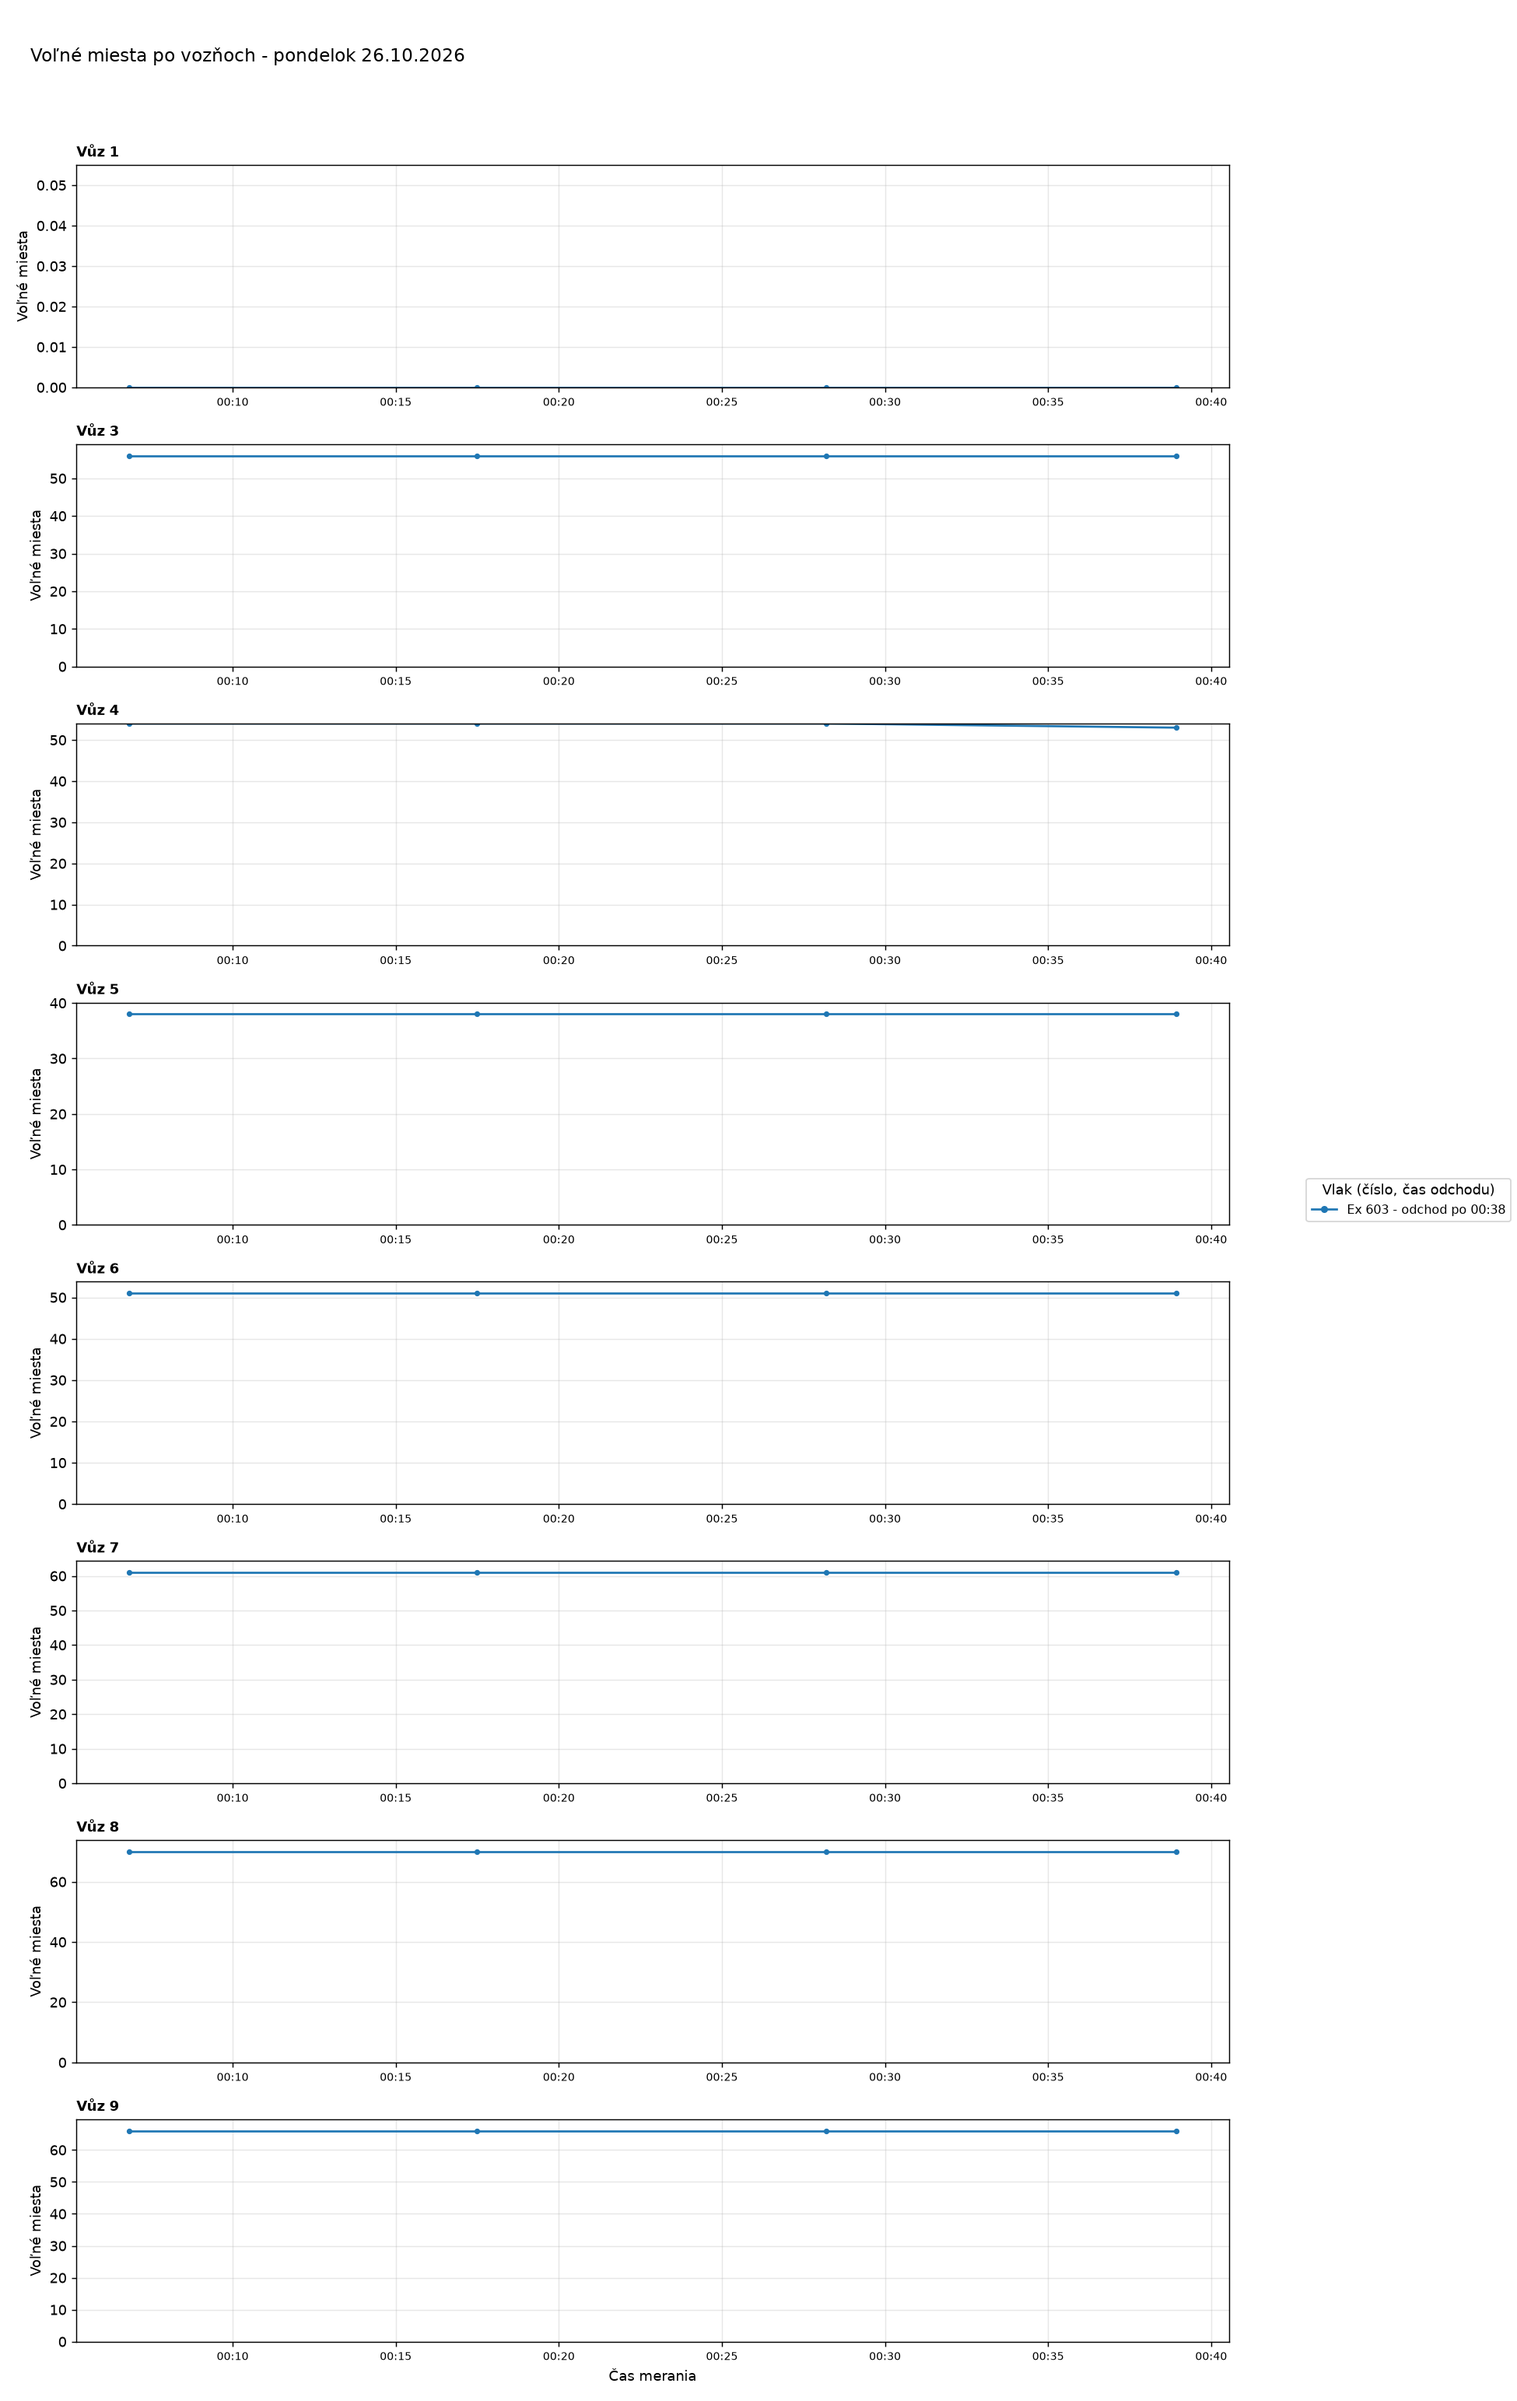
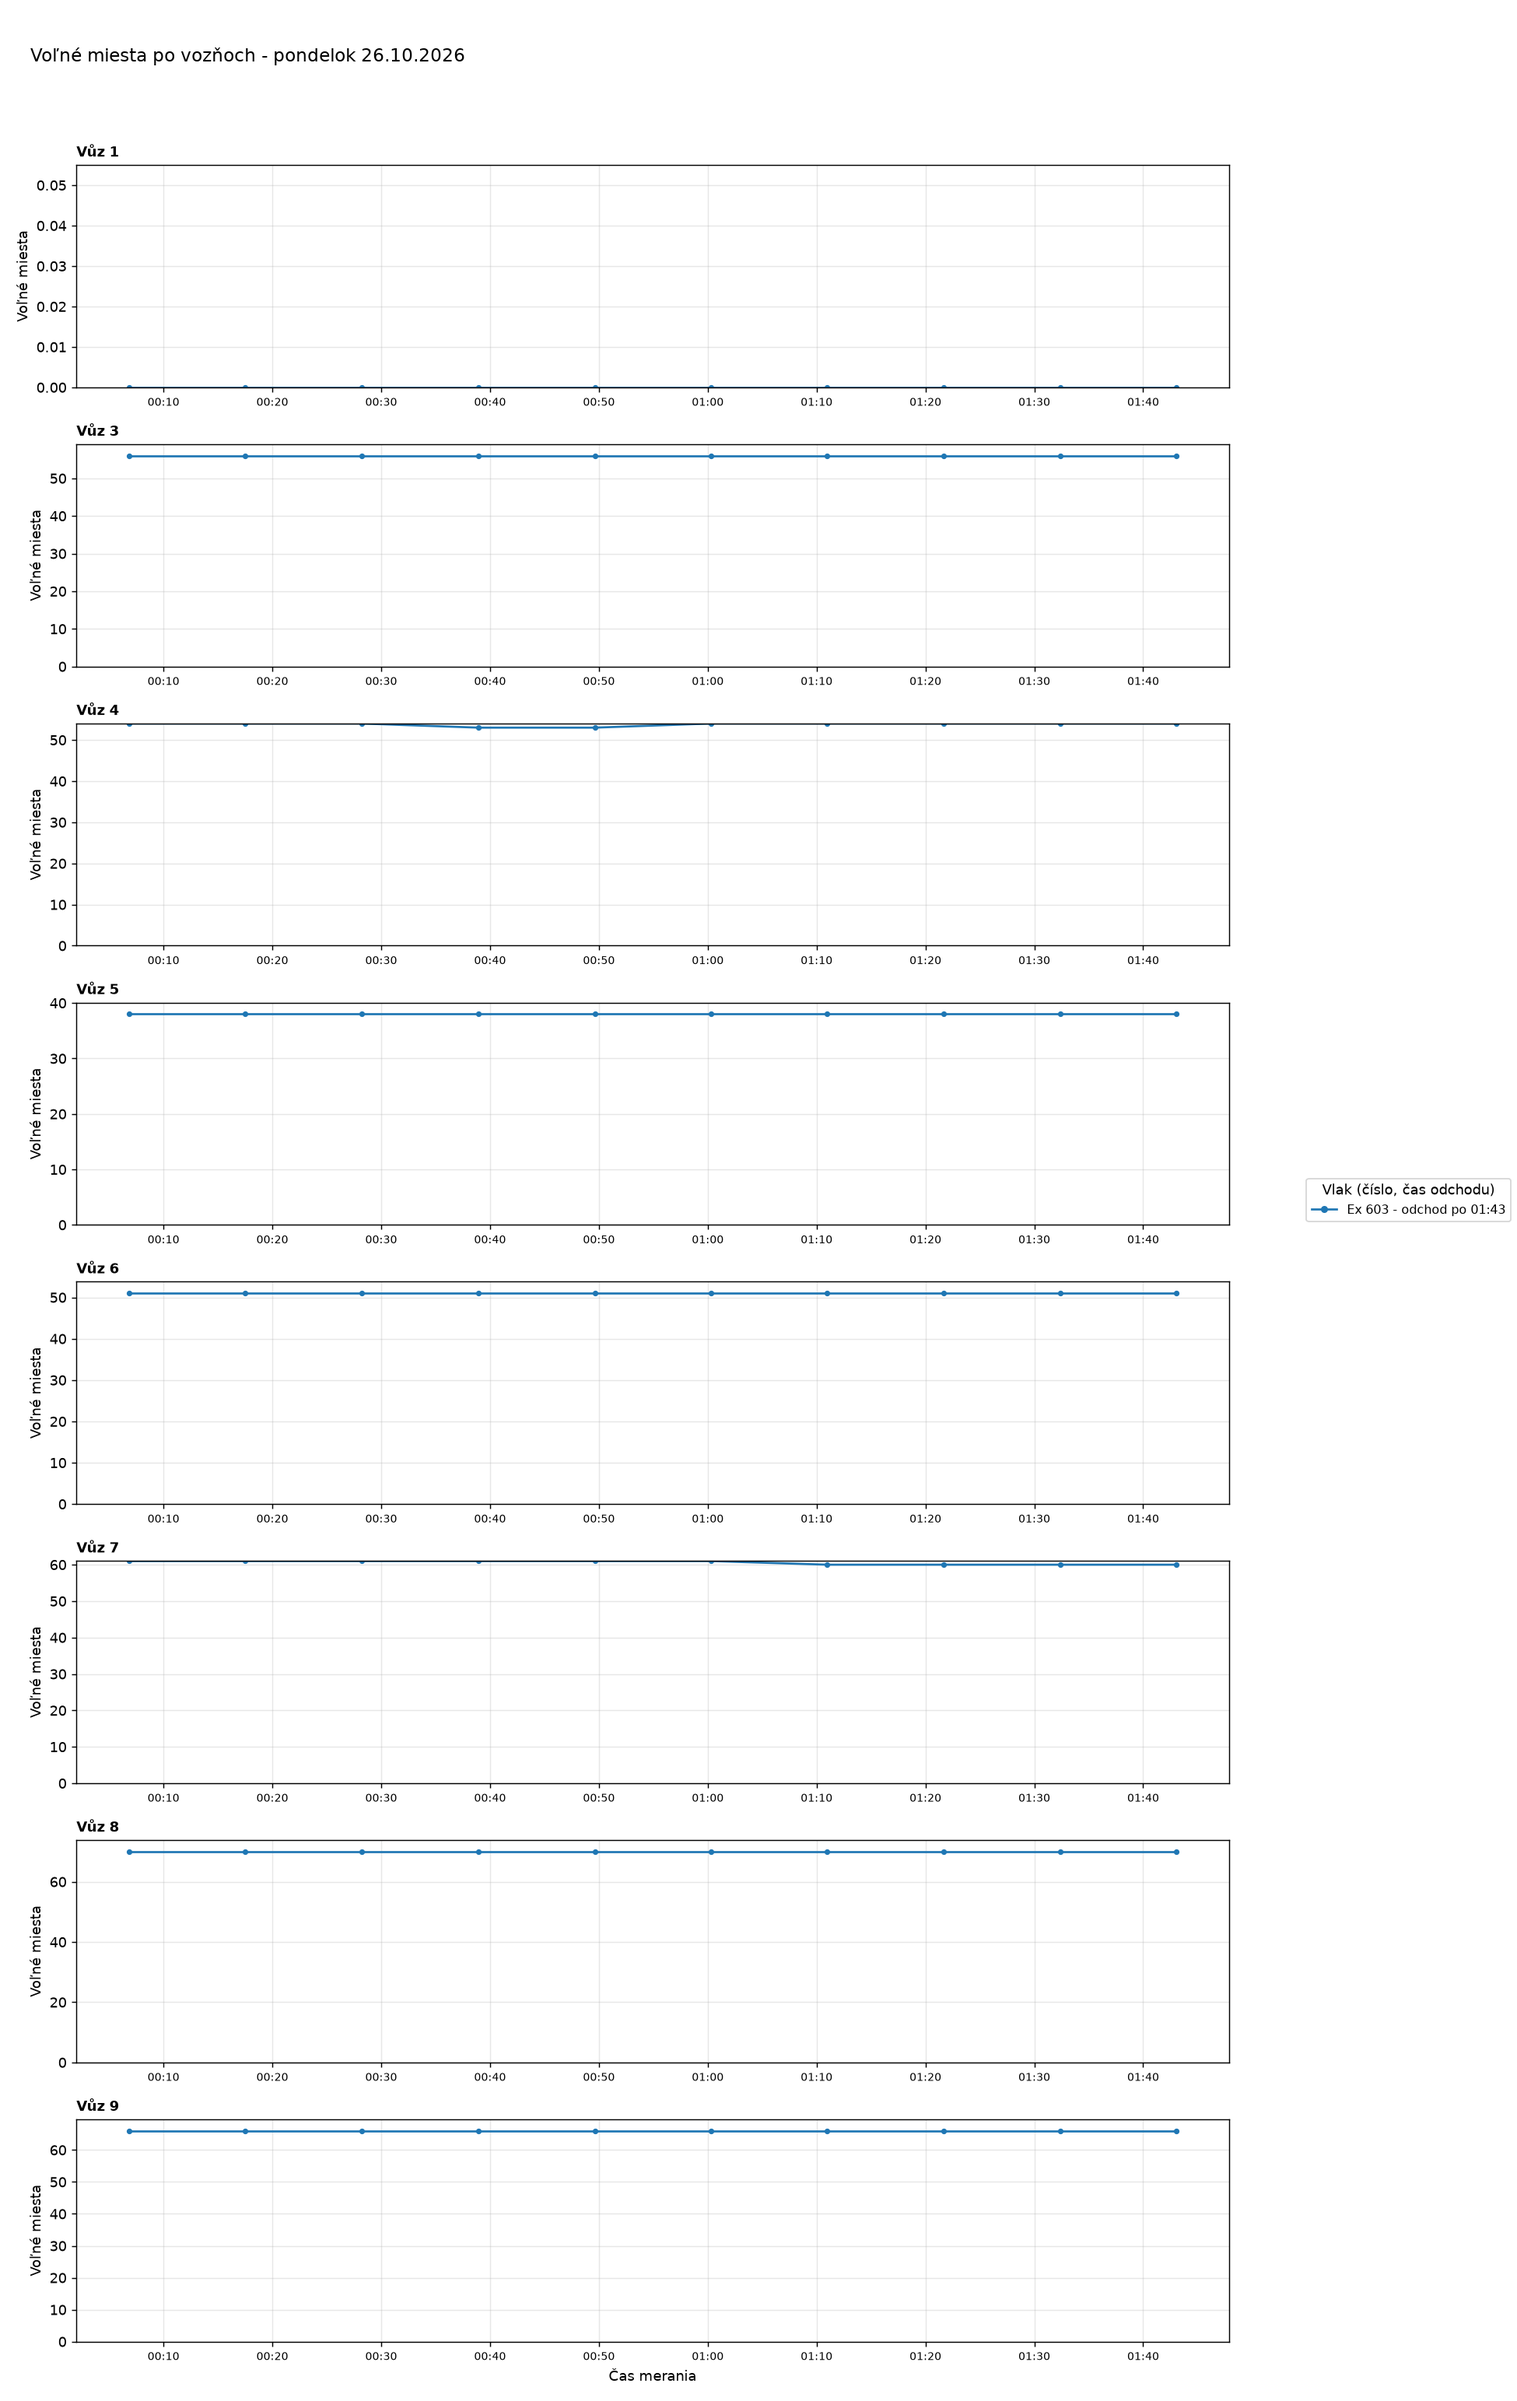
Aktualizácia grafov 2026-10-26 01:46

Changed region(s): [[0.0308, 0.6533, 0.0615, 0.7155]]

diff --git a/index.html b/index.html
@@ -35,7 +35,7 @@ h2.oddiel{margin:36px 0 0;font-size:1.4rem}
 <body>
 <main>
 <h1>Voľné miesta vo vlakoch</h1>
-<p class="muted">Posledné meranie: 26.10.2026 00:38 ·
+<p class="muted">Posledné meranie: 26.10.2026 01:43 ·
 <a href="data/obsadenost_data.csv">stiahnuť dáta (CSV)</a></p>
 <nav class="nav"><a href="#suhrn">Súhrn</a><a href="#statistiky">Štatistiky</a><a href="#historia">História grafov</a></nav>
 
@@ -44,7 +44,7 @@ h2.oddiel{margin:36px 0 0;font-size:1.4rem}
 <div class="tablewrap"><table>
 <thead><tr><th>Deň</th><th>Meraní</th><th>Vlakov</th><th>Čas meraní</th></tr></thead>
 <tbody>
-<tr><td><a href="#d2026-10-26">pondelok 26.10.2026</a></td><td>4</td><td>1</td><td>00:06-00:38</td></tr>
+<tr><td><a href="#d2026-10-26">pondelok 26.10.2026</a></td><td>10</td><td>1</td><td>00:06-01:43</td></tr>
 <tr><td><a href="#d2026-10-25">nedeľa 25.10.2026</a></td><td>101</td><td>15</td><td>00:01-23:56</td></tr>
 <tr><td><a href="#d2026-10-24">sobota 24.10.2026</a></td><td>98</td><td>14</td><td>00:10-23:50</td></tr>
 <tr><td><a href="#d2026-10-23">piatok 23.10.2026</a></td><td>64</td><td>13</td><td>07:25-23:49</td></tr>
